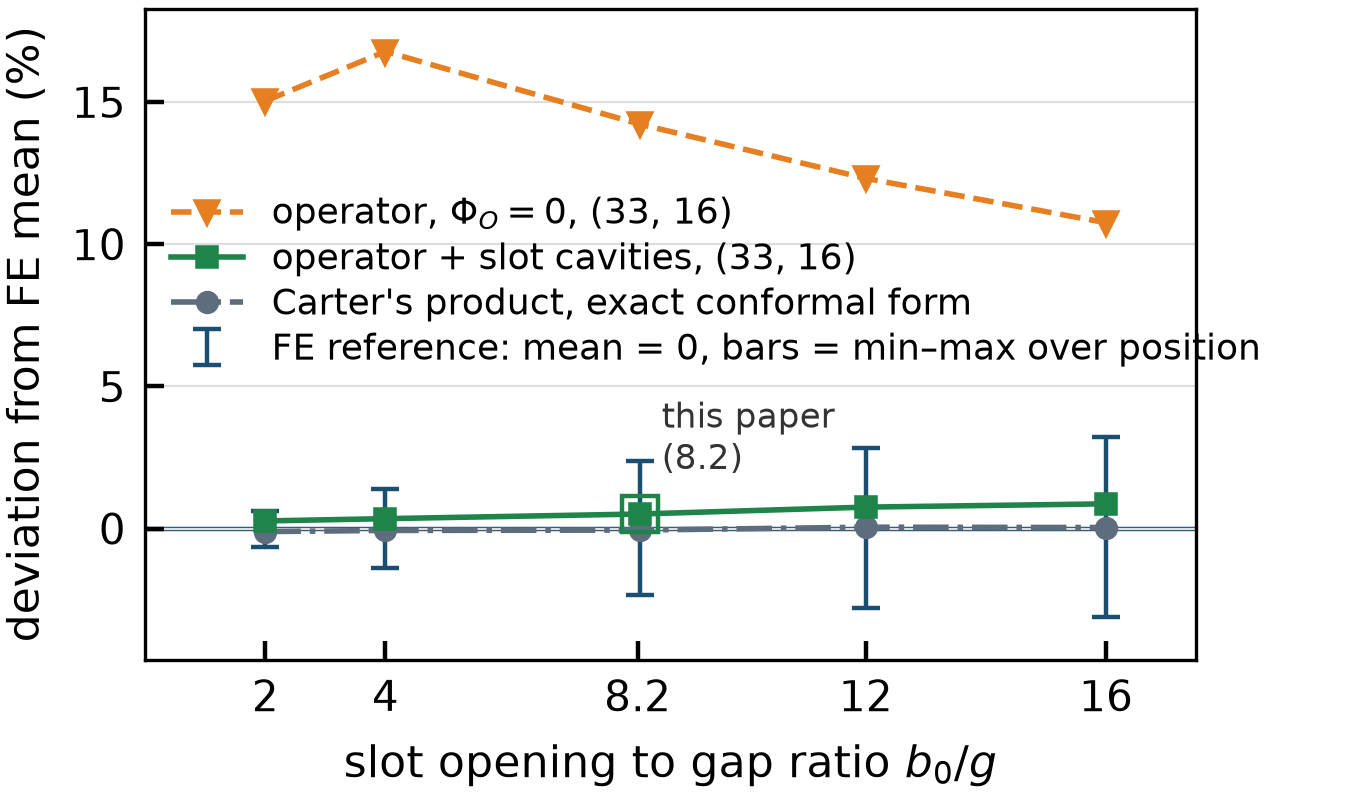
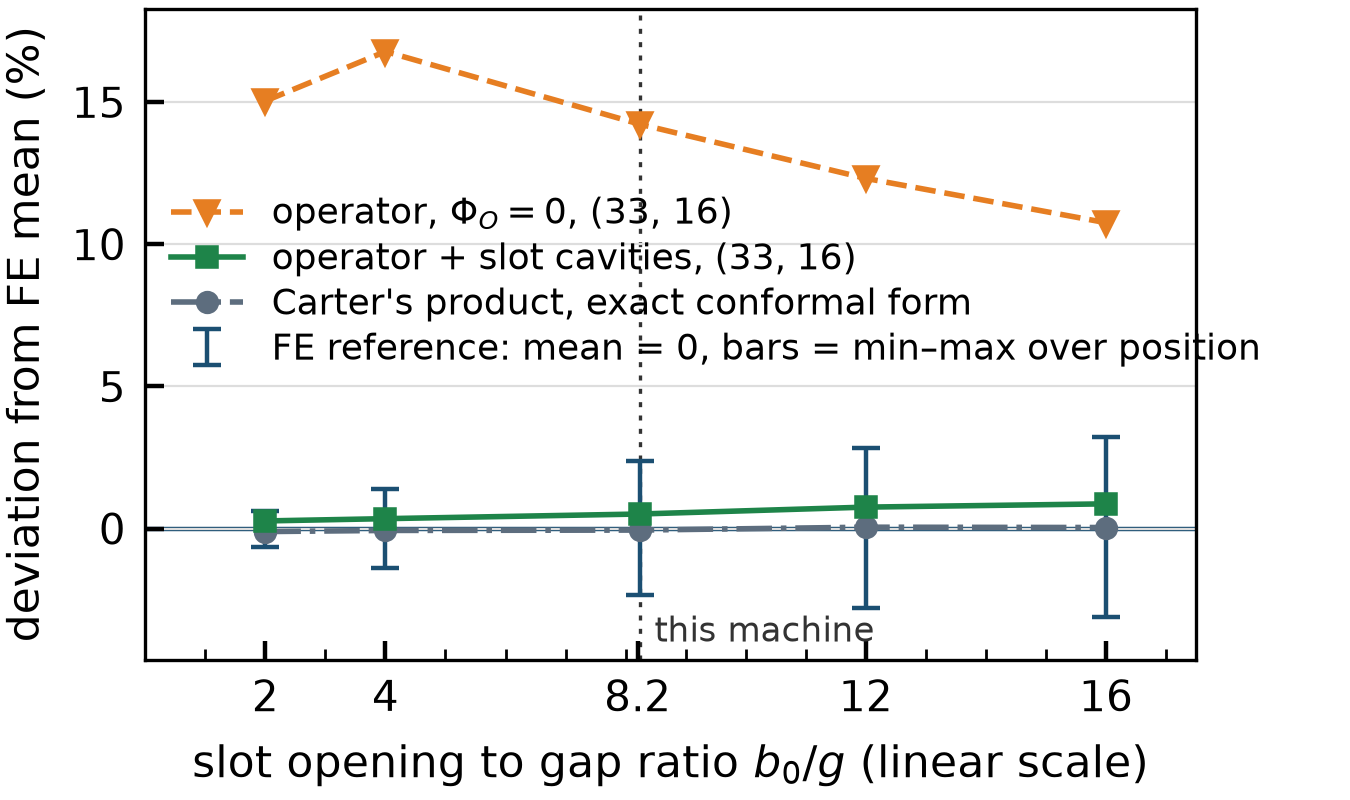
Fig. 3: vertical dotted marker 'this machine' at b0/g = 8.23, ordinary markers, minor ticks and '(linear scale)' on the abscissa
Numbers unchanged (prod_sweep_b0g_results.json untouched).

Changed region(s): [[0.1244, 0.9375, 0.8711, 1.0], [0.4356, 0.5, 0.6222, 0.6875], [0.4667, 0.75, 0.6533, 0.8125]]

diff --git a/code/python/FIG3_B0G_SWEEP.py b/code/python/FIG3_B0G_SWEEP.py
@@ -43,14 +43,15 @@ ax.errorbar(x, np.zeros_like(x), yerr=[-lo, hi], fmt='none', ecolor=C['fe'], eli
 ax.plot(x, y_neu, color=C['op'], marker='v', ms=3.5, lw=1.0, ls='--', zorder=3, label=r'operator, $\Phi_O = 0$, (33, 16)')
 ax.plot(x, y_cav, color=C['cav'], marker='s', ms=3.2, lw=1.0, zorder=4, label='operator + slot cavities, (33, 16)')
 ax.plot(x, y_carter, color=C['carter'], marker='o', ms=3.2, lw=1.0, ls='-.', zorder=3, label="Carter's product, exact conformal form")
-ax.plot([x[inom]], [y_cav[inom]], marker='s', ms=6.5, mfc='none', mec=C['cav'], mew=0.8, ls='none', zorder=5)
-ax.annotate('this paper\n(8.2)', xy=(x[inom], y_cav[inom]), xytext=(4, 6), textcoords='offset points', fontsize=6.2, color='#333333', ha='left', va='bottom')
-ax.set_xlabel(r'slot opening to gap ratio $b_0/g$')
+ymin = min(lo.min(), y_carter.min(), y_cav.min()) - 1.5; ymax = max(y_neu.max(), hi.max()) + 1.5
+ax.set_ylim(ymin, ymax)
+ax.axvline(x[inom], color='#333333', lw=0.6, ls=(0, (1.5, 2.5)), zorder=1)                      # the machine of the paper, b0/g = 8.23
+ax.text(x[inom] + 0.25, ymin + 0.35, 'this machine', fontsize=6.2, color='#333333', ha='left', va='bottom')
+ax.set_xlabel(r'slot opening to gap ratio $b_0/g$ (linear scale)')
 ax.set_ylabel('deviation from FE mean (%)')
 ax.set_xlim(0, max(x) + 1.5)
 ax.set_xticks([2, 4, 8.2, 12, 16] if min(x) < 3 else [4, 8.2, 12, 16]); ax.set_xticklabels(['2', '4', '8.2', '12', '16'] if min(x) < 3 else ['4', '8.2', '12', '16'])
-ymin = min(lo.min(), y_carter.min(), y_cav.min()) - 1.5; ymax = max(y_neu.max(), hi.max()) + 1.5
-ax.set_ylim(ymin, ymax)
+ax.set_xticks(np.arange(1, int(max(x)) + 2), minor=True); ax.tick_params(axis='x', which='minor', length=2, width=0.5)
 ax.grid(axis='y', color='#dddddd', lw=0.4, zorder=0)
 ax.legend(loc='center left', bbox_to_anchor=(0.0, 0.58), handlelength=2.0, borderaxespad=0.3, labelspacing=0.25)   # the band between the near-zero curves and the Phi_O = 0 curve
 fig.tight_layout(pad=0.2)
